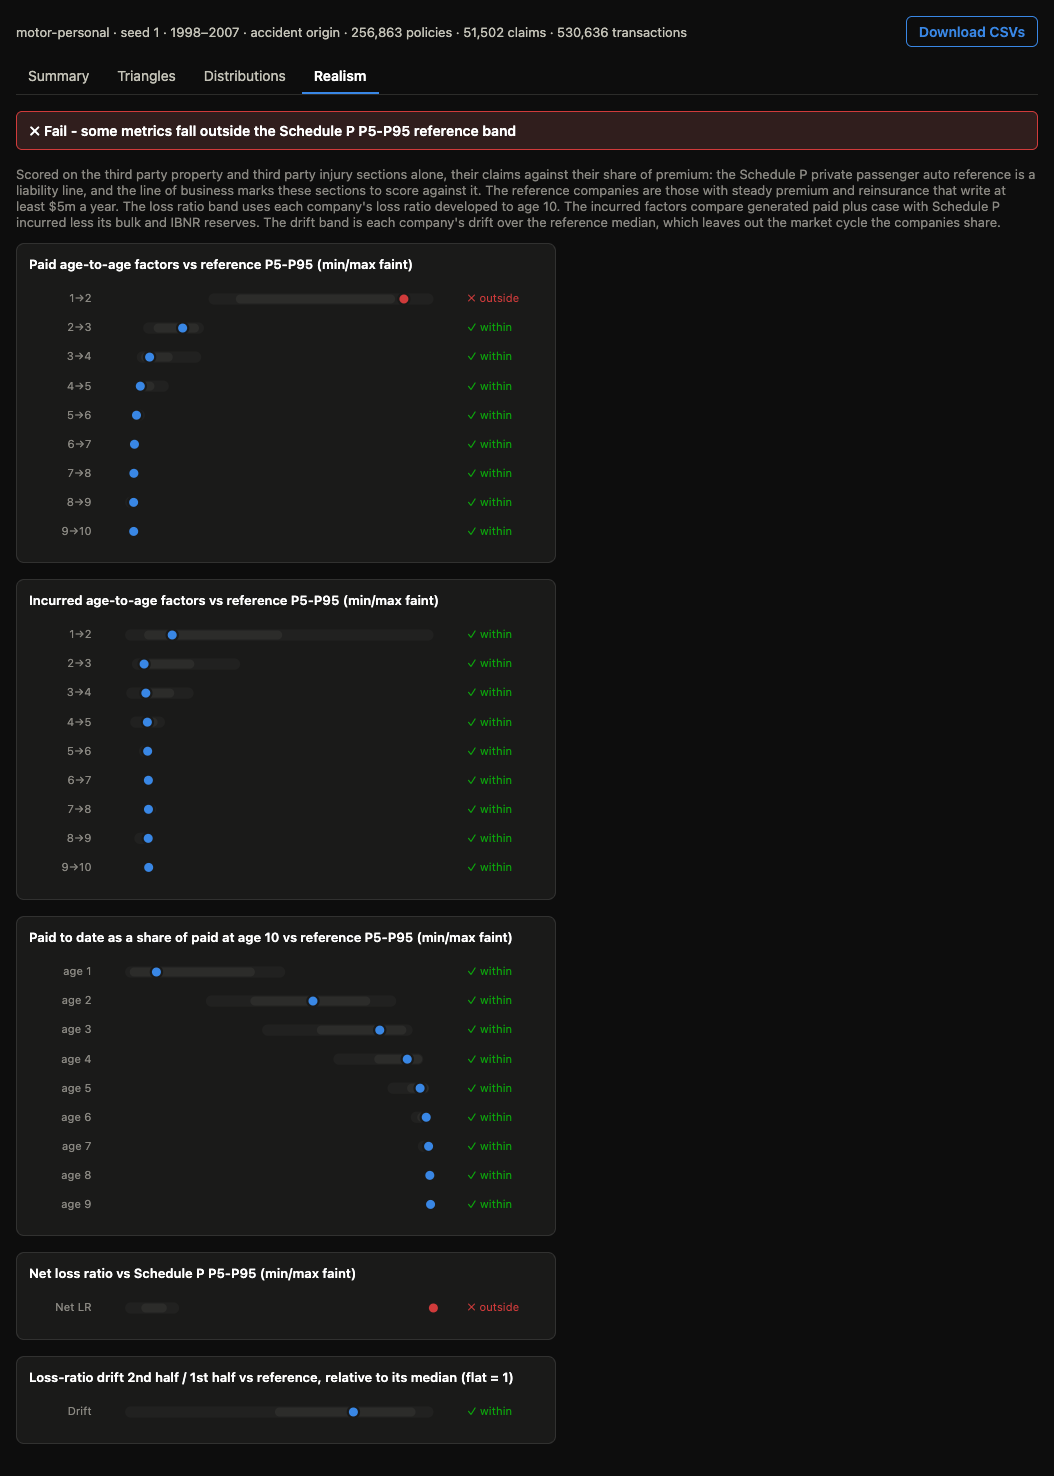
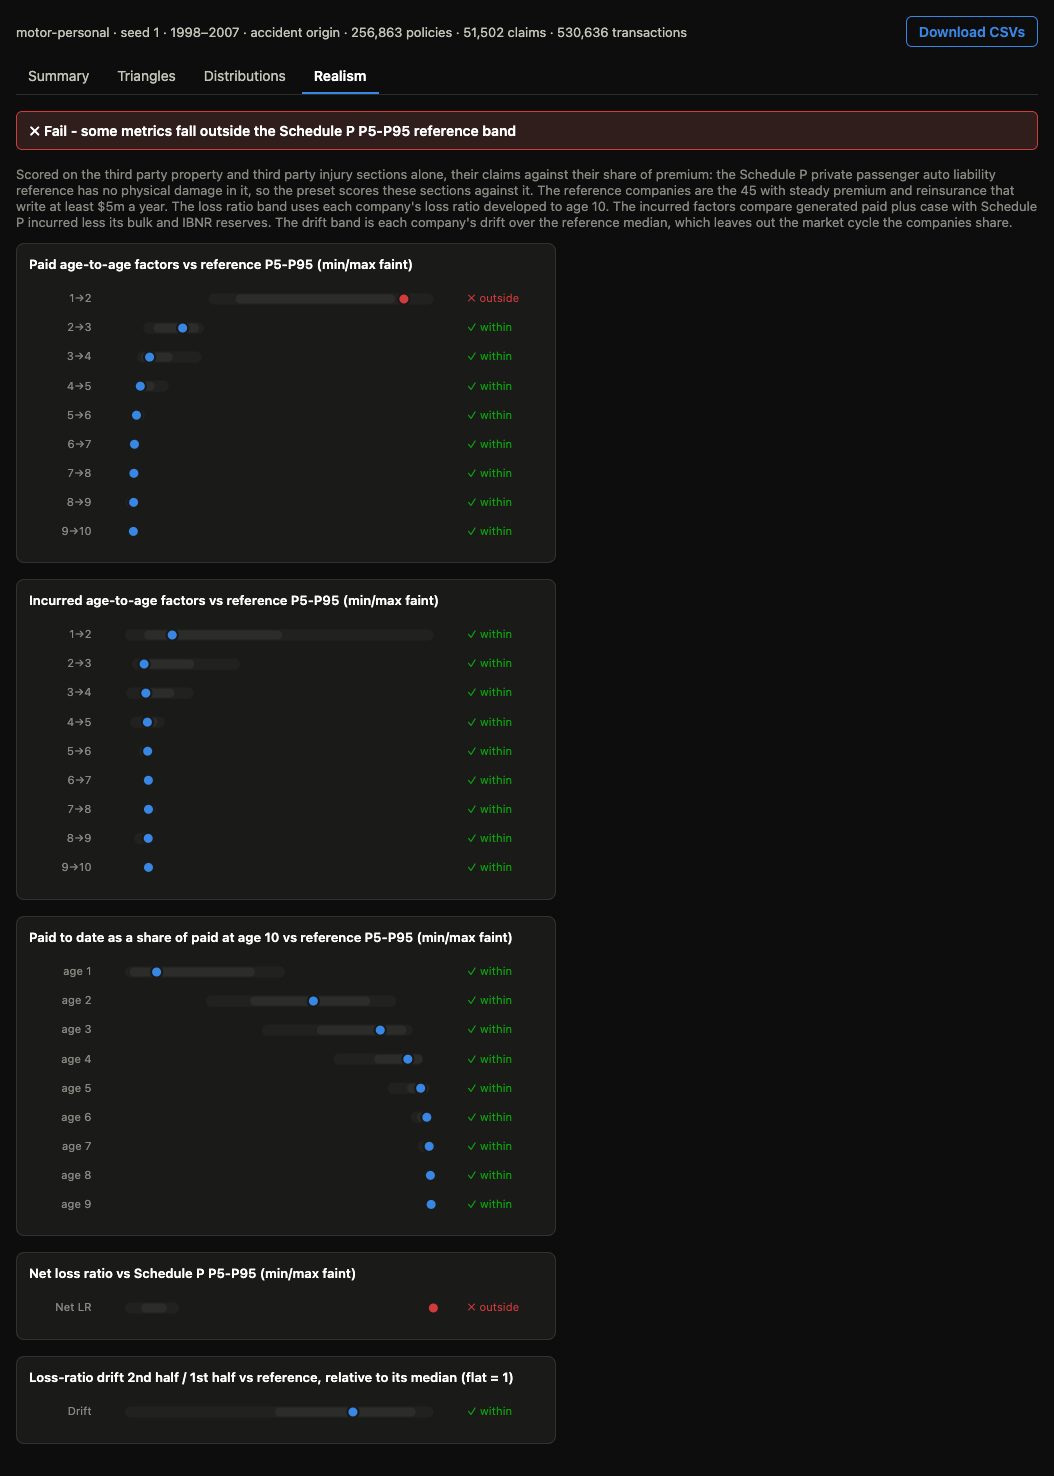
Refresh the realism screenshots and tidy the not-scored note
Claude-Session: https://claude.ai/code/session_011w6EksVybkZvfDJFBQA8AJ

Changed region(s): [[0.0, 0.0935, 0.9715, 0.1558]]

diff --git a/internal/infrastructure/web/static/app.js b/internal/infrastructure/web/static/app.js
@@ -520,7 +520,7 @@ function renderRealism(r) {
   const pool = `The reference companies are the ${ref.companies} with steady premium and reinsurance that write at least $${ref.min_premium / 1e6}m a year.`;
   const names = (r.sections || []).map((s) => s.replaceAll("_", " "));
   const scored = names.length
-    ? `Scored on the ${names.join(" and ")} ${names.length > 1 ? "sections" : "section"} alone, their claims against their share of premium: the Schedule P ${ref.label} reference is a liability line, and the preset scores these sections against it. ${pool}`
+    ? `Scored on the ${names.join(" and ")} ${names.length > 1 ? "sections" : "section"} alone, their claims against their share of premium: the Schedule P ${ref.label} reference has no physical damage in it, so the preset scores these sections against it. ${pool}`
     : `Scored on the whole book against the Schedule P ${ref.label} reference. ${pool}`;
   scope.textContent = `${scored} The loss ratio band uses each company's loss ratio developed to age 10. The incurred factors compare generated paid plus case with Schedule P incurred less its bulk and IBNR reserves. The drift band is each company's drift over the reference median, which leaves out the market cycle the companies share.`;
   panel.append(

diff --git a/internal/infrastructure/web/server.go b/internal/infrastructure/web/server.go
@@ -233,6 +233,9 @@ func (s *Server) handleGenerate(w http.ResponseWriter, r *http.Request) {
 // whose parameters lack a section the preset scores is not scored, and the
 // view says why.
 func (s *Server) score(res run) (realismJSON, error) {
+	if res.req.Preset == "" {
+		return notScored("the run names no preset to score against"), nil
+	}
 	info, ok := config.PresetInfoFor(res.req.Preset)
 	if !ok {
 		return notScored(fmt.Sprintf("no preset %q to score against", res.req.Preset)), nil
